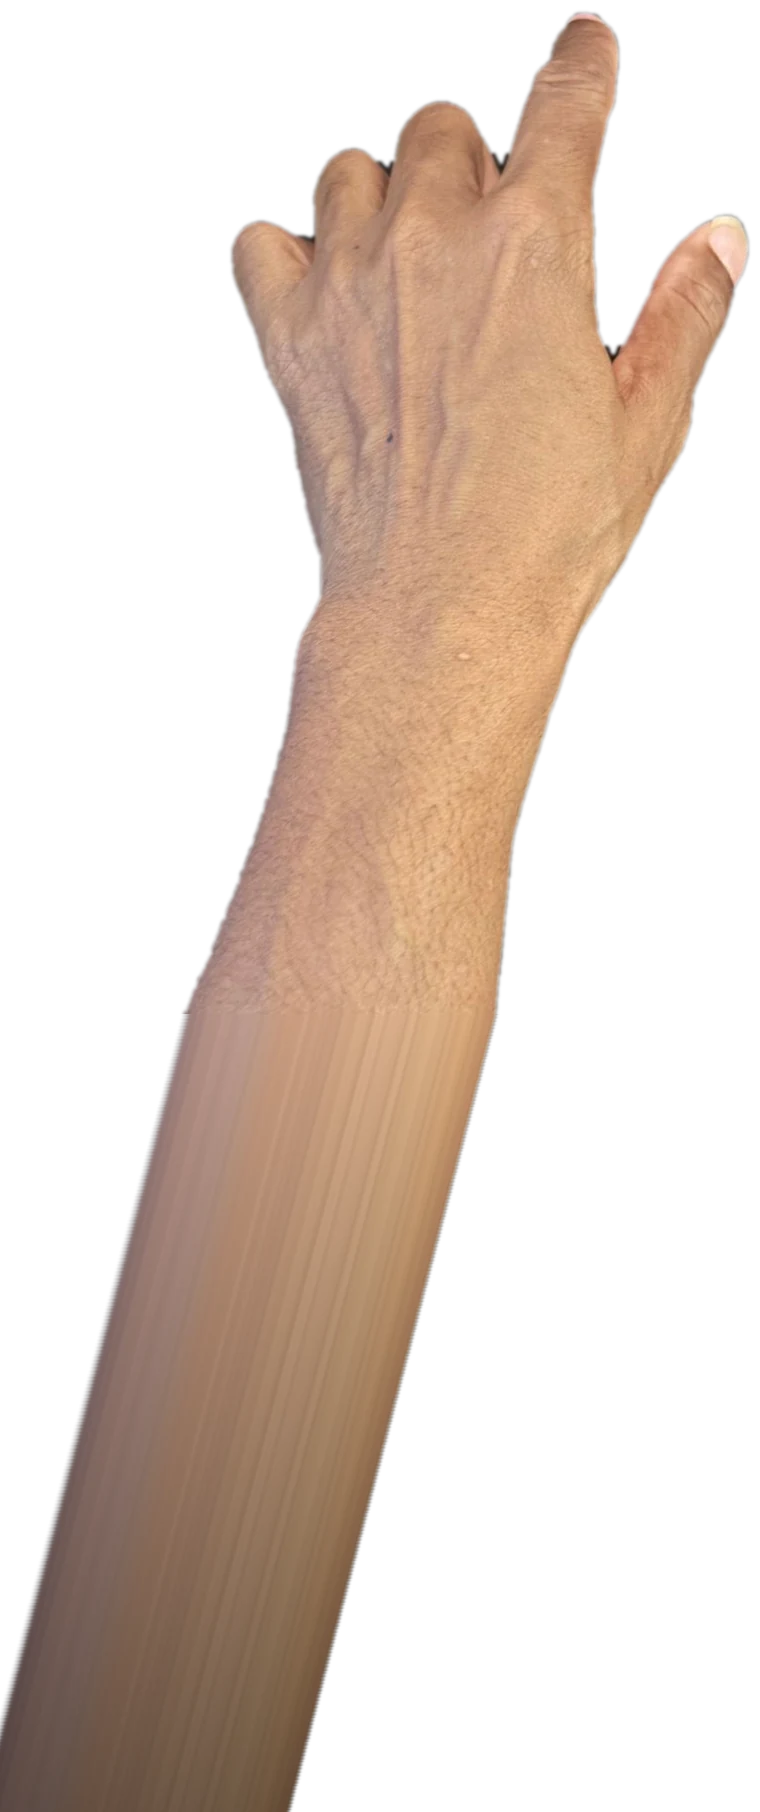
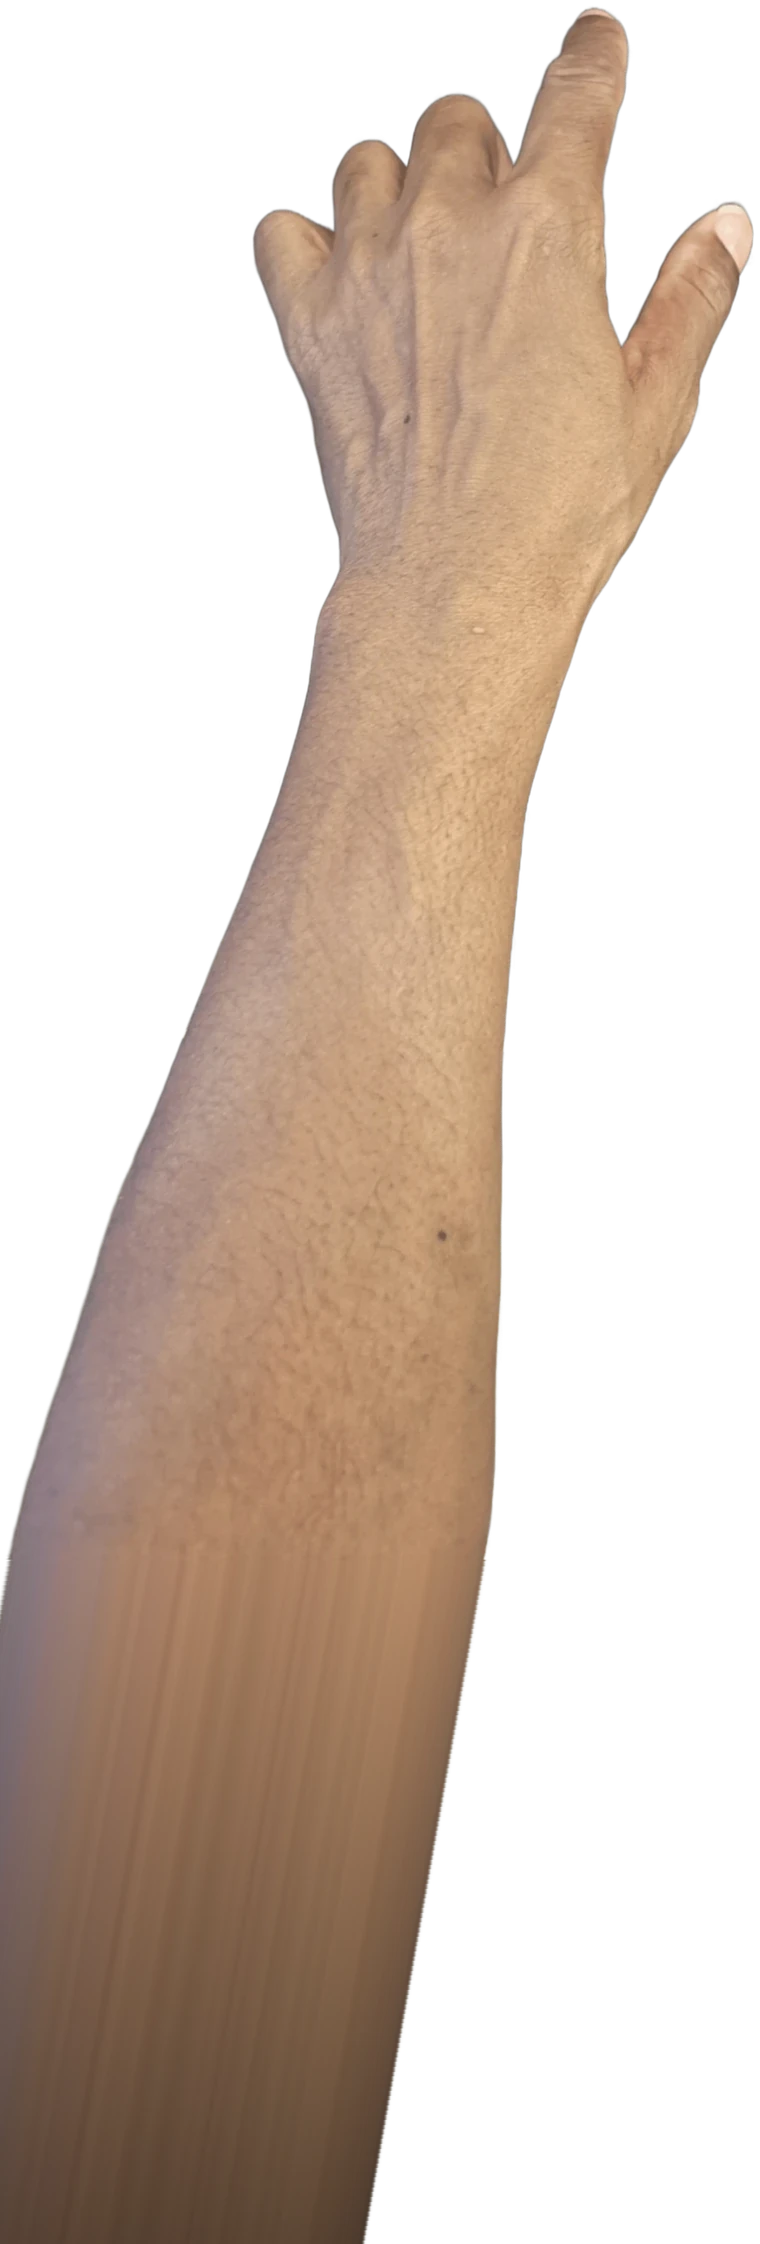
MPC maker: use the clean hand cutouts; hands lit and shadowed to match the scene (lamp direction, contact shadow, shaded arm)

diff --git a/mpc.js b/mpc.js
@@ -168,7 +168,7 @@ function handwrite(c,L,l1,l2,prog){if(prog<=0)return;c.save();c.translate(L.cx,L
  const draw=(txt,size,y,col,font)=>{let sz=size;c.font=font(sz);while(sz>10&&c.measureText(txt).width>L.w*.86){sz-=1;c.font=font(sz)}const tw=c.measureText(txt).width;let x=-tw/2;for(let i=0;i<txt.length;i++){const ch=txt[i],w=c.measureText(ch).width,jy=(hs(i,3+txt.length)-.5)*sz*.07,jr=(hs(i,5)-.5)*.07;c.save();c.translate(x+w/2,y+jy);c.rotate(jr);c.globalAlpha=.78+.2*hs(i,9);c.fillStyle=col;c.fillText(ch,-w/2,0);c.globalAlpha*=.5;c.fillText(ch,-w/2+.5,.35);c.restore();x+=w}};
  draw(l1,L.h*.4,L.h*.06,'#1d2340',s=>s+"px 'Caveat',cursive");if(l2)draw(l2,L.h*.24,L.h*.38,'#2a2f55',s=>s+"px 'Reenie Beanie',cursive");c.restore()}
 /* your hands: fingertip anchor, arm slant and finger width of the two cutouts (mpc/hand_r.webp, mpc/hand_l.webp) */
-const HM={r:{tip:[139.6,11.8],axis:.2519,fw:62},l:{tip:[585.1,12.4],axis:-.209,fw:62}};
+const HM={r:{tip:[137.8,6.8],axis:.2477,fw:62},l:{tip:[594.7,6.8],axis:-.2208,fw:62}};
 let HANDS=null;
 function prepHands(r,l){if(!r||!l)return;const mk=(img,warm)=>{const cv=document.createElement('canvas');cv.width=img.naturalWidth;cv.height=img.naturalHeight;const x=cv.getContext('2d');x.drawImage(img,0,0);if(warm){x.globalCompositeOperation='multiply';x.fillStyle='rgb(255,204,150)';x.fillRect(0,0,cv.width,cv.height);x.globalCompositeOperation='destination-in';x.drawImage(img,0,0)}return cv};
  const sil=img=>{const w=Math.round(img.naturalWidth/4),h=Math.round(img.naturalHeight/4),cv=document.createElement('canvas');cv.width=w;cv.height=h;const x=cv.getContext('2d');x.drawImage(img,0,0,w,h);x.globalCompositeOperation='source-in';x.fillStyle='#000';x.fillRect(0,0,w,h);return cv};
@@ -182,10 +182,27 @@ function handAt(list,T,G){if(!list.length)return null;let i=0;while(i<list.lengt
  if(next){const d=clamp((T-(tB-.105))/.105,0,1);hover=Math.min(hover,1-d*d)}else hover=Math.max(hover,clamp((T-tA-.2)/.8,0,1)*.9);
  return{x,y,hover:clamp(hover,0,1)}}
 /* a hard tap: the hand floats up, then drops fast and lands on the pad; its shadow is big and soft when lifted and tight and dark on contact */
-function drawHands(c,G,Sx,T,desk){if(!HANDS)return;const H=handHits(Sx),k=G.pad.w/72;
- for(const key of ['l','r']){const st=handAt(H[key],T,G);if(!st)continue;const m=HM[key],hv=st.hover,s0=(G.pad.w*.5/m.fw),s=s0*(1+.17*hv),sx=G.W*(key==='r'?.66:.34),sy=G.H*1.55,ang=Math.atan2(sx-st.x,sy-st.y),rot=m.axis-ang+.014*Math.sin(T*41)*hv,push=(1-hv)*5*k,HI=HANDS[key];
-  c.save();c.translate(st.x-(9+24*hv)*k,st.y+(12+28*hv)*k+3*k);c.rotate(rot);c.scale(s*(1+.1*hv),s*(1+.1*hv));c.globalAlpha=desk?(.6-.3*hv):(.34-.16*hv);c.filter='blur('+((2.5+8*hv)*k).toFixed(1)+'px)';c.drawImage(HI.sil,-m.tip[0],-m.tip[1],HI.sil.width*4,HI.sil.height*4);c.restore();
-  c.save();c.translate(st.x,st.y+.12*G.pad.h+push);c.rotate(rot);c.translate(0,hv*26*k);c.scale(s,s);c.drawImage(desk?HI.warm:HI.norm,-m.tip[0],-m.tip[1]);c.restore()}}
+function drawHands(c,G,Sx,T,desk){if(!HANDS)return;const H=handHits(Sx),k=G.pad.w/72,lp=G.lamp||[G.W*.2,-G.H*.35,0];
+ for(const key of ['l','r']){const st=handAt(H[key],T,G);if(!st)continue;
+  const m=HM[key],hv=st.hover,s0=G.pad.w*.5/m.fw,s=s0*(1+.17*hv),sx=G.W*(key==='r'?.66:.34),sy=G.H*1.55,ang=Math.atan2(sx-st.x,sy-st.y),rot=m.axis-ang+.014*Math.sin(T*41)*hv,push=(1-hv)*5*k,HI=HANDS[key];
+  /* which way the lamp is, in the picture and in the hand's own space */
+  let dx=lp[0]-st.x,dy=lp[1]-st.y;const dl=Math.hypot(dx,dy)||1;dx/=dl;dy/=dl;const cr=Math.cos(rot),sr=Math.sin(rot),lx=dx*cr+dy*sr,ly=-dx*sr+dy*cr,tipX=st.x,tipY=st.y+.12*G.pad.h;
+  /* 1. the machine goes a little darker right under the fingertip, more the closer the finger is */
+  const ao=Math.pow(1-hv,1.6);if(ao>.02){c.save();const rg=c.createRadialGradient(tipX,tipY+4*k,1,tipX,tipY+4*k,26*k);rg.addColorStop(0,'rgba(0,0,0,'+(.45*ao).toFixed(3)+')');rg.addColorStop(1,'rgba(0,0,0,0)');c.fillStyle=rg;c.fillRect(tipX-30*k,tipY-26*k,60*k,64*k);c.restore()}
+  /* 2. two shadows thrown away from the lamp: a wide soft one that grows as the hand lifts, and a tight dark one that shows when it lands */
+  for(const L of [{o:(10+30*hv)*k,b:(3+10*hv)*k,a:(desk?.3:.18)*(1-.45*hv),g:1.08+.1*hv},{o:(3+8*hv)*k,b:(1.2+3*hv)*k,a:(desk?.5:.3)*(1-hv*.85),g:1.01+.03*hv}]){c.save();c.translate(st.x-dx*L.o,st.y-dy*L.o);c.rotate(rot);c.scale(s*L.g,s*L.g);c.globalAlpha=L.a;c.filter='blur('+L.b.toFixed(1)+'px)';c.drawImage(HI.sil,-m.tip[0],-m.tip[1],HI.sil.width*4,HI.sil.height*4);c.restore()}
+  /* 3. the hand itself, lit like the scene: warm and bright on the side facing the lamp, darker on the far side, the arm falling into shadow */
+  const sh=shadeHand(HI,m,desk,lx,ly,hv);
+  c.save();c.translate(tipX,tipY+push);c.rotate(rot);c.translate(0,hv*26*k);c.scale(s,s);c.drawImage(sh,-m.tip[0],-m.tip[1]);c.restore()}}
+function shadeHand(HI,m,desk,lx,ly,hv){const w=HI.norm.width,h=HI.norm.height,cv=HI.shade||(HI.shade=document.createElement('canvas'));if(cv.width!==w){cv.width=w;cv.height=h}const x=cv.getContext('2d');x.globalCompositeOperation='copy';x.globalAlpha=1;x.drawImage(desk?HI.warm:HI.norm,0,0);x.globalCompositeOperation='multiply';
+ const R=340,cxx=m.tip[0]+120,cyy=m.tip[1]+260,g=x.createLinearGradient(cxx-lx*R,cyy-ly*R,cxx+lx*R,cyy+ly*R);
+ if(desk){g.addColorStop(0,'rgb(136,106,90)');g.addColorStop(.5,'rgb(212,188,168)');g.addColorStop(1,'rgb(255,238,214)')}else{g.addColorStop(0,'rgb(192,188,186)');g.addColorStop(.5,'rgb(232,230,228)');g.addColorStop(1,'rgb(255,255,255)')}
+ x.fillStyle=g;x.fillRect(0,0,w,h);
+ const g2=x.createLinearGradient(0,m.tip[1]+180,0,h*.78);if(desk){g2.addColorStop(0,'rgb(255,255,255)');g2.addColorStop(.5,'rgb(198,176,160)');g2.addColorStop(1,'rgb(108,88,78)')}else{g2.addColorStop(0,'rgb(255,255,255)');g2.addColorStop(1,'rgb(192,188,186)')}
+ x.fillStyle=g2;x.fillRect(0,0,w,h);
+ x.globalCompositeOperation='destination-in';x.drawImage(HI.norm,0,0);
+ if(hv>.05&&desk){x.globalCompositeOperation='lighter';x.globalAlpha=.1*hv;x.drawImage(HI.norm,0,0);x.globalAlpha=1}
+ x.globalCompositeOperation='source-over';return cv}
 /* dust drifting through the lamp light */
 function dust(c,T,G){const lp=G.lamp;if(!lp)return;const N=96,A=[lp[0]+(G.W*.5-lp[0])*.42,lp[1]+(G.H*.5-lp[1])*.42],R=lp[2]*.95,sg=lp[2]*.62;c.save();c.globalCompositeOperation='lighter';
  for(let i=0;i<N;i++){const r1=hs(i,21),r2=hs(i,22),r3=hs(i,23),r4=hs(i,24),a=r1*6.2832,d=R*Math.sqrt(r2),bx=A[0]+Math.cos(a)*d,by=A[1]+Math.sin(a)*d,sp=2.2+5*r3;

diff --git a/index.html b/index.html
@@ -1447,7 +1447,7 @@ async function boRender(){
  document.getElementById('bo2b').style.display='none';document.getElementById('bo2c').style.display='none';
  if(window.emailClose)emailClose();if(window.showMakerClose)showMakerClose();if(window.mpcClose)mpcClose();
  if(tab==='email'){document.querySelector('#bo .bo2').style.display='none';if(window.studioClose)studioClose();try{if(!window.emailOpen)await loadScript('email.js?v=4');await emailOpen()}catch(e){toast('EMAIL STUDIO FAILED TO LOAD')}return}
- if(tab==='mpc'){document.querySelector('#bo .bo2').style.display='none';if(window.studioClose)studioClose();try{if(!window.mpcOpen)await loadScript('mpc.js?v=16');await mpcOpen()}catch(e){toast('MPC FAILED TO LOAD')}return}
+ if(tab==='mpc'){document.querySelector('#bo .bo2').style.display='none';if(window.studioClose)studioClose();try{if(!window.mpcOpen)await loadScript('mpc.js?v=17');await mpcOpen()}catch(e){toast('MPC FAILED TO LOAD')}return}
  if(tab==='show'){document.querySelector('#bo .bo2').style.display='none';if(window.studioClose)studioClose();try{if(!window.MZShow)await loadScript('show.js?v=15');if(!window.MZShowFX)await loadScript('showfx.js?v=3');if(!window.showMakerOpen)await loadScript('showmaker.js?v=16');await showMakerOpen()}catch(e){toast('SHOW MAKER FAILED TO LOAD')}return}
  if(vid){try{await loadStudio();await studioOpen()}catch(e){toast('VIDEO STUDIO FAILED TO LOAD')}return}
  if(window.studioClose)studioClose();

diff --git a/tools/make_hands.py b/tools/make_hands.py
@@ -1,55 +1,50 @@
-"""Cuts the two hand photos out (skin colour on a dark mouse pad) and writes mpc/hand_r.webp, mpc/hand_l.webp and mpc/hands.json
-Usage: python tools/make_hands.py <right_hand.jpg> <left_hand.jpg>"""
+"""Builds mpc/hand_r.webp, mpc/hand_l.webp and mpc/hands.json from two hand cutouts that already have transparency.
+Usage: python tools/make_hands.py <right_hand_cutout.webp> <left_hand_cutout.webp>
+Stray specks are removed, the arm is carried on past the picture (along its slant, shaded darker) so it runs off the bottom of the video frame."""
 import sys, json, os, numpy as np
 from PIL import Image, ImageDraw, ImageFilter
 root = os.path.dirname(os.path.dirname(os.path.abspath(__file__)))
 OUT = os.path.join(root, 'mpc')
-SEEDS = {'r': (610, 1150), 'l': (640, 1050)}  # a point inside each wrist
 meta = {}
 for key, path in zip(('r', 'l'), sys.argv[1:3]):
-    im = Image.open(path).convert('RGB')
-    a = np.asarray(im).astype(np.float32); r, g, b = a[..., 0], a[..., 1], a[..., 2]
-    mx = a.max(axis=2); mn = a.min(axis=2); sat = (mx - mn) / (mx + 1e-3)
-    # skin, loosely: warm (red above blue), not an LED colour, brighter than the dark pad; nails and shaded skin included
-    skin = (r >= g - 4) & (g >= b - 8) & (r - b > 7) & (mx > 66) & ((b - g) < 14) & (sat < .8)
-    raw = Image.fromarray((skin * 255).astype(np.uint8), 'L').filter(ImageFilter.MinFilter(3))
-    m = raw
-    m = m.filter(ImageFilter.MinFilter(5)).filter(ImageFilter.MaxFilter(5))        # remove specks
-    m = m.filter(ImageFilter.MaxFilter(21)).filter(ImageFilter.MinFilter(21))        # close small gaps (nails, creases)
-    # gap filling may only happen right next to real skin (nails, creases), never between the fingers
-    near = raw.filter(ImageFilter.MaxFilter(9))
-    m = Image.fromarray((np.minimum(np.asarray(m), np.asarray(near))).astype(np.uint8), 'L')
-    # keep only the piece of skin that is the hand + arm
-    lab = m.point(lambda v: 255 if v > 127 else 0).copy()
-    ImageDraw.floodfill(lab, SEEDS[key], 128, thresh=0)
-    sel = (np.asarray(lab) == 128)
-    mk = Image.fromarray((sel * 255).astype(np.uint8), 'L').filter(ImageFilter.MinFilter(3)).filter(ImageFilter.GaussianBlur(1.8))
-    ys, xs = np.where(sel)
-    top = ys.min(); rows = np.where(ys < top + 8)[0]; tipx = float(xs[rows].mean())
-    bot = ys.max(); bx = float(xs[ys > bot - 6].mean())
-    # keep the hand and about 1500 px of arm
-    y0 = max(0, top - 14); y1 = min(im.size[1], top + (1370 if key == 'r' else 1130)); x0 = max(0, xs.min() - 14); x1 = min(im.size[0], xs.max() + 14)
-    rgba = im.copy(); rgba.putalpha(mk)
-    rgba = rgba.crop((x0, y0, x1, y1))
-    S = 760 / rgba.size[0] if rgba.size[0] > 760 else 1.0
-    # carry the arm on past the picture (so it runs off the bottom of the video frame) along the same slant, shaded darker
-    ext = 900; arr = np.asarray(rgba).astype(np.float32); H0, W0 = arr.shape[:2]
+    im = Image.open(path).convert('RGBA'); a = np.asarray(im).copy(); al = a[..., 3]
+    # keep only the biggest piece (the hand and arm), drop specks: label the pieces on a small copy
+    from collections import deque
+    sm = (al[::4, ::4] > 40); H4, W4 = sm.shape; lab = np.zeros((H4, W4), np.int32); best = (0, 0); n = 0
+    for y in range(H4):
+        for x in range(W4):
+            if sm[y, x] and not lab[y, x]:
+                n += 1; q = deque([(y, x)]); lab[y, x] = n; cnt = 0
+                while q:
+                    cy, cx_ = q.popleft(); cnt += 1
+                    for dy, dx in ((1, 0), (-1, 0), (0, 1), (0, -1)):
+                        ny, nx = cy + dy, cx_ + dx
+                        if 0 <= ny < H4 and 0 <= nx < W4 and sm[ny, nx] and not lab[ny, nx]: lab[ny, nx] = n; q.append((ny, nx))
+                if cnt > best[0]: best = (cnt, n)
+    big = (lab == best[1]); up = np.kron(big, np.ones((4, 4), bool))[:al.shape[0], :al.shape[1]]
+    upm = Image.fromarray((up * 255).astype(np.uint8), 'L').filter(ImageFilter.MaxFilter(15))
+    keep = (np.asarray(upm) > 0)
+    a[..., 3] = np.where(keep, al, 0)
+    ys, xs = np.where(a[..., 3] > 40)
+    top, bot = ys.min(), ys.max(); x0, x1 = max(0, xs.min() - 8), min(im.size[0], xs.max() + 8); y0 = max(0, top - 8)
+    rows = np.where(ys < top + 8)[0]; tipx = float(xs[rows].mean())
+    bx = float(xs[ys > bot - 6].mean())
+    rgba = Image.fromarray(a, 'RGBA').crop((x0, y0, x1, bot + 1))
+    # carry the arm on past the picture
+    ext = 800; arr = np.asarray(rgba).astype(np.float32); H0, W0 = arr.shape[:2]
     def cx(y):
-        al = arr[y, :, 3]; xs2 = np.where(al > 128)[0]; return float(xs2.mean()) if len(xs2) else W0 / 2
+        q = np.where(arr[y, :, 3] > 128)[0]; return float(q.mean()) if len(q) else W0 / 2
     sl = (cx(H0 - 4) - cx(H0 - 260)) / 256.0
-    base = arr[H0 - 14:H0].mean(axis=0)
-    rows = np.zeros((ext, W0, 4), np.float32)
+    base = arr[H0 - 14:H0].mean(axis=0); rows_ = np.zeros((ext, W0, 4), np.float32)
     for i in range(ext):
         sh = int(round(sl * (i + 1))); r_ = np.roll(base, sh, axis=0)
         if sh > 0: r_[:sh] = 0
         elif sh < 0: r_[sh:] = 0
-        k = 1 - .5 * (i / ext); r_ = r_.copy(); r_[:, :3] *= k; rows[i] = r_
-    full = np.concatenate([arr, rows], axis=0).astype(np.uint8); rgba = Image.fromarray(full, 'RGBA')
-    out = rgba.resize((int(rgba.size[0] * S), int(rgba.size[1] * S)), Image.LANCZOS)
-    out.save(os.path.join(OUT, 'hand_%s.webp' % key), quality=88, method=6)
-    # finger width 110 px below the tip (original px), arm axis from tip to the bottom of the arm
-    row = np.where(sel[top + 110])[0]; fw = float(row.max() - row.min()) if len(row) else 100
-    meta[key] = {'w': out.size[0], 'h': out.size[1], 'tip': [(tipx - x0) * S, (top - y0) * S], 'axis': float(np.arctan2(bx - tipx, bot - top if bot - top > 0 else 1)),
-                 'finger': fw * S}
+        r_ = r_.copy(); r_[:, :3] *= 1 - .5 * (i / ext); rows_[i] = r_
+    full = Image.fromarray(np.concatenate([arr, rows_], axis=0).astype(np.uint8), 'RGBA')
+    S = 760 / full.size[0] if full.size[0] > 760 else 1.0
+    out = full.resize((int(full.size[0] * S), int(full.size[1] * S)), Image.LANCZOS)
+    out.save(os.path.join(OUT, 'hand_%s.webp' % key), quality=90, method=6)
+    meta[key] = {'w': out.size[0], 'h': out.size[1], 'tip': [round((tipx - x0) * S, 1), round((top - y0) * S, 1)], 'axis': round(float(np.arctan2(bx - tipx, bot - top)), 4)}
     print(key, out.size, meta[key])
 json.dump(meta, open(os.path.join(OUT, 'hands.json'), 'w'))
